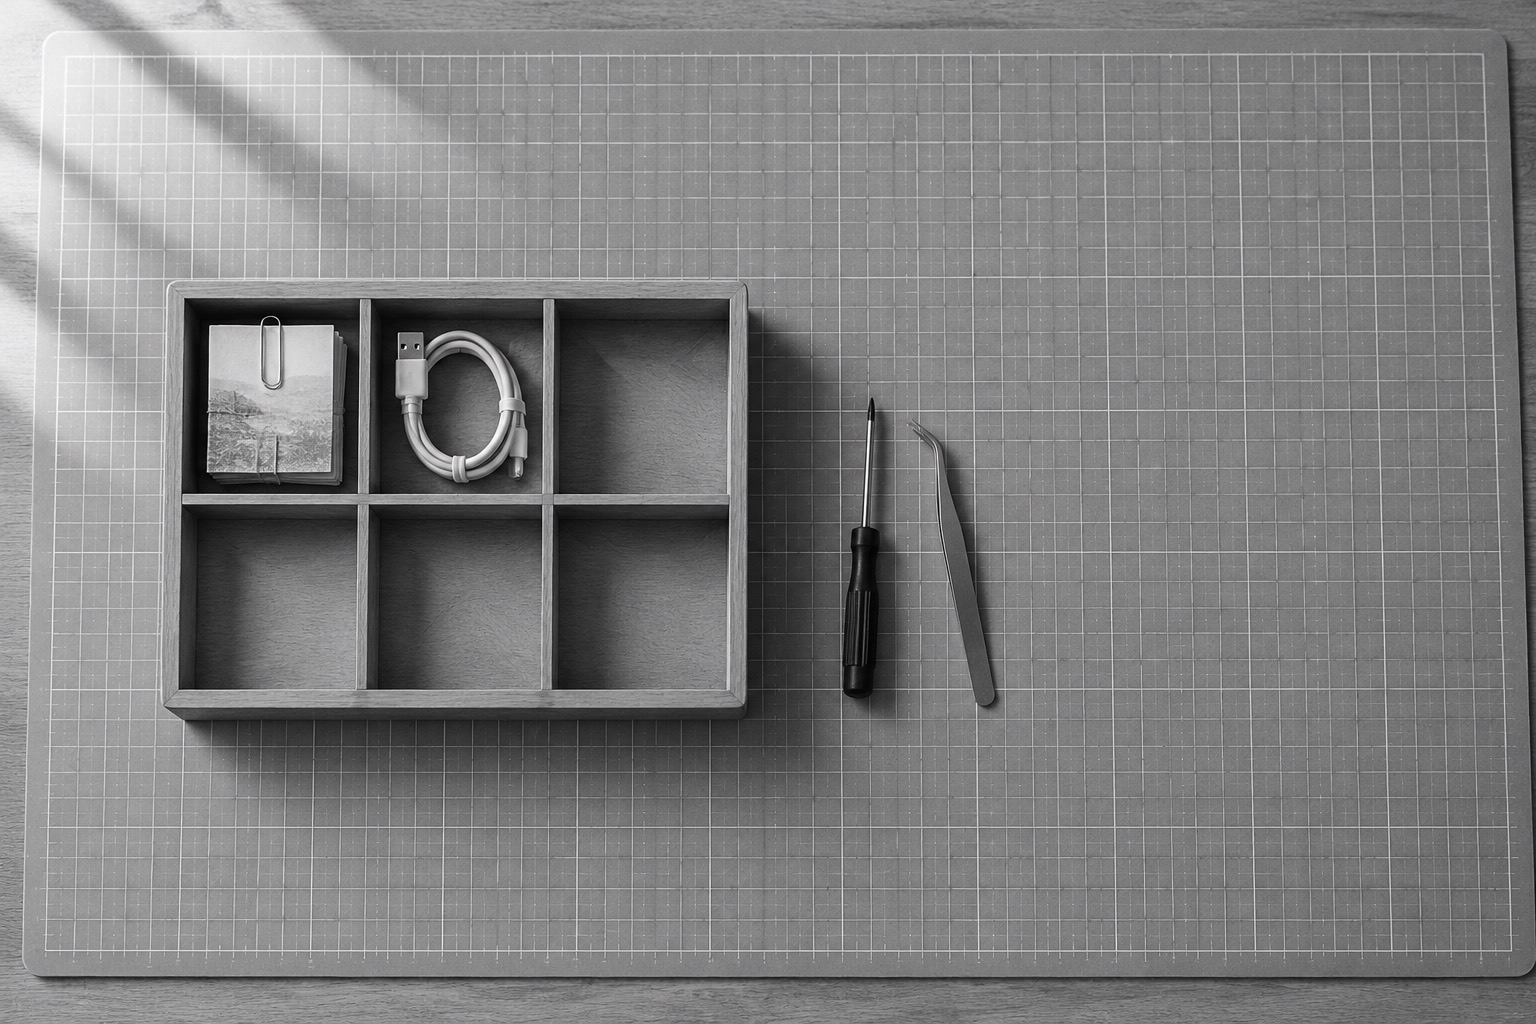
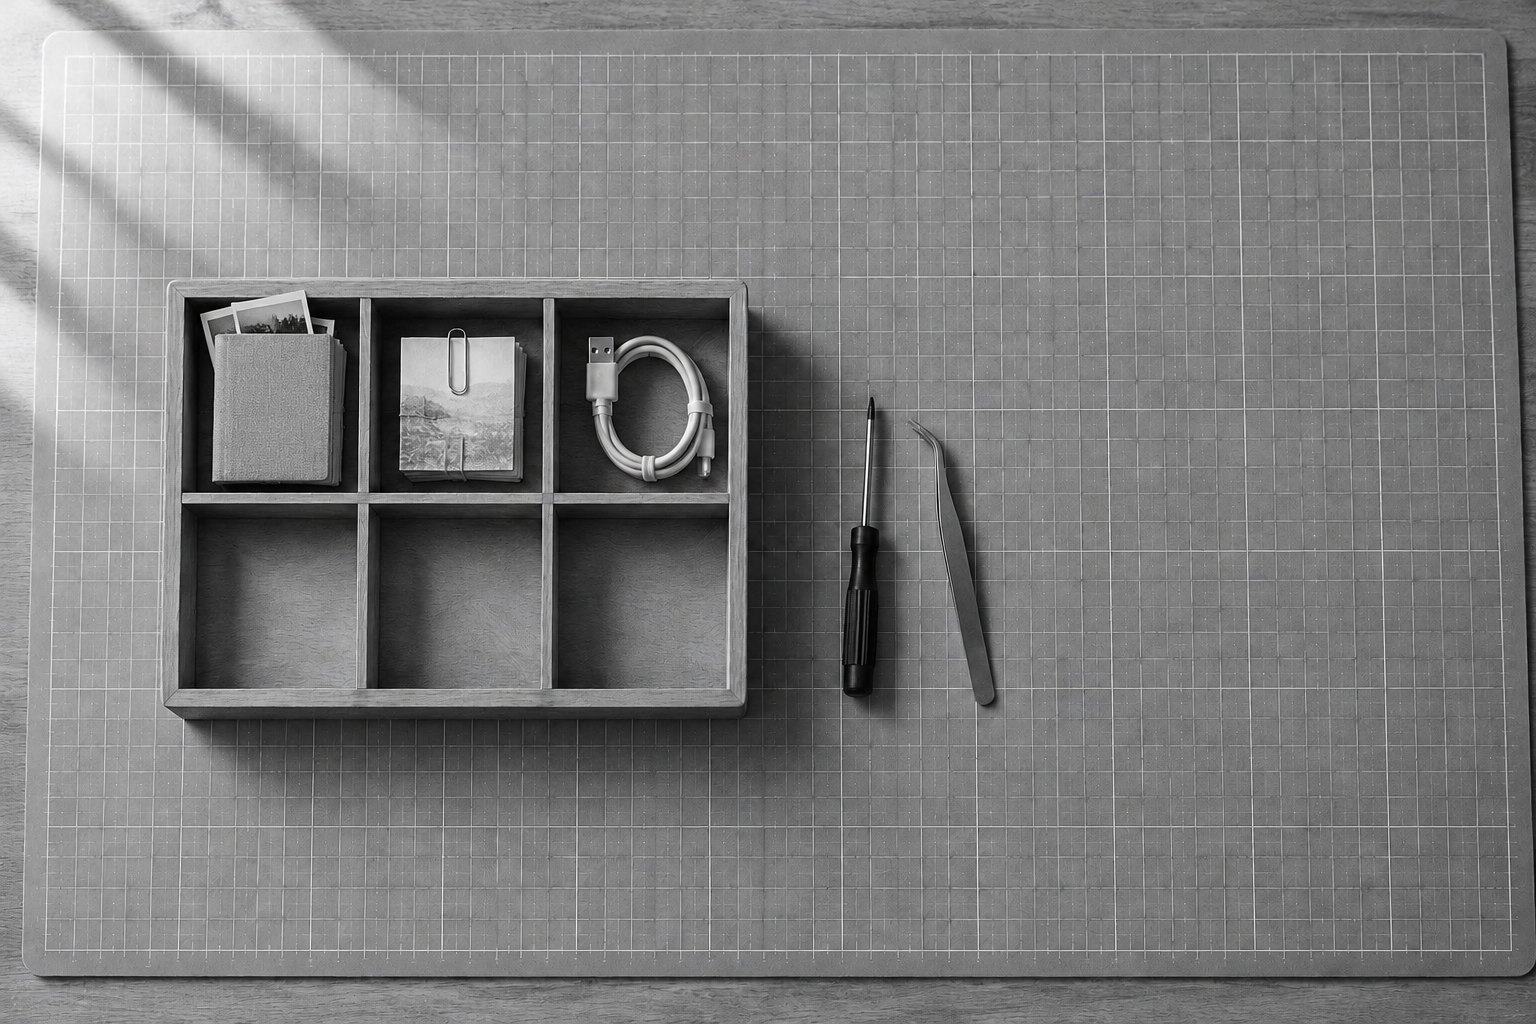
Put Dayline Journal back on the bench as the first project
The Refresh port dropped Dayline, Haoo's main project. It now leads
the home page list and the Work page, with copy taken from Haoo's own
post and the plugin manifest. The tray photo gains a journal with
instant photos in cell 01, the paper and cable move to 02 and 03, and
the tray and empty-cell labels now follow the number of projects.
Image candidates and the generation script are kept in output/.

diff --git a/src/data/projects.ts b/src/data/projects.ts
@@ -18,8 +18,30 @@ export interface Project {
   href: string;
 }
 
-// 托盘照片上前两格放作品，其余四格留空
+// 托盘照片上按顺序每格放一个作品，剩下的格子留空
 export const projects: Project[] = [
+  {
+    id: 'dayline',
+    name: 'Dayline Journal',
+    kind: 'Obsidian plugin',
+    started: '2026-07',
+    line: 'A visual journal for Obsidian: calendar, timeline, mood, memories, weather and photos in one place.',
+    lineZh: zh.projects['dayline'].line,
+    problem: 'At university I switched to Day One and gave up after five months. My journal lived on its servers, where AI couldn’t read it. When I moved it into Obsidian, I found it was a bare shell for keeping a journal: no photo calendar, no On This Day, no timeline.',
+    problemZh: zh.projects['dayline'].why,
+    does: [
+      'Photo calendar: a whole month covered in my photos. An empty day nags at you, so you want to fill it in.',
+      'Timeline: the journal stops being a folder of cold, dated files.',
+      'Mood: a colour for each day, shown on the calendar too.',
+      'Weather and photo EXIF: how wild the weather was that day, and when, on what and with which settings each photo was taken.',
+    ],
+    doesZh: zh.projects['dayline'].does,
+    stack: 'TypeScript, on Obsidian desktop and mobile',
+    stackZh: zh.projects['dayline'].builtWith,
+    status: 'In the official Obsidian community plugin store. Search for Dayline Journal.',
+    statusZh: zh.projects['dayline'].status,
+    href: 'https://github.com/Haoo-7/Obsidian-Dayline',
+  },
   {
     id: 'md2docx',
     name: 'md2docx-historypaper-skill',
@@ -63,3 +85,7 @@ export const projects: Project[] = [
     href: 'https://github.com/Haoo-7/agent-recap',
   },
 ];
+
+// 托盘共六格，空格子的编号，如 04–06
+const pad = (n: number) => String(n).padStart(2, '0');
+export const laterCells = projects.length < 5 ? `${pad(projects.length + 1)}–06` : '06';

diff --git a/src/i18n/copy-zh.ts b/src/i18n/copy-zh.ts
@@ -45,6 +45,20 @@ export const zh = {
   workIntro: `这些小工具都是为了解决我自己碰到的问题做的，每格放一个。`,
 
   projects: {
+    // Dayline 这几句是从你小黑盒那篇帖子和插件简介里摘的，只删了加粗、接了一下句子；
+    // builtWith 是 Agent 补的。都请按你的意思改。
+    'dayline': {
+      line: `集日历、时间线、心情、回顾、天气和照片于一体的可视化日记工具。`,
+      why: `上了大学开始用 Day One，结果 5 个月就弃坑了。问题出在：我的日记存在它的服务器上，AI 读不到。搬进 Obsidian 之后才发现，用它写日记是真的「毛坯房」：没有图片日历，没有去年今日，没有时间轴。`,
+      does: [
+        `图片日历视图：一个月铺满我的照片。空着的一天会逼死强迫症，所以你会想把它补上。`,
+        `时间轴：日记不再是冷冰冰的日期文件。`,
+        `心情记录：用颜色标记每天的状态，日历上同步显示。`,
+        `天气 + 照片 EXIF：当天的天气有多离谱，以及这张照片是几点拍的、用什么设备、参数怎样。`,
+      ],
+      builtWith: `TypeScript，桌面端和手机端都能用。`,
+      status: `已上架 Obsidian 官方社区市场，搜 Dayline Journal 就能找到。`,
+    },
     'md2docx': {
       line: `把用 Markdown 写的历史论文转成可以直接投稿的 Word 文件，脚注和引文都会放在该放的位置。`,
       why: `我第一次让 Agent 按史学期刊的格式排自己的论文，花了大约两个半小时，在 Word 的 XML 里走错了十二次。`,
